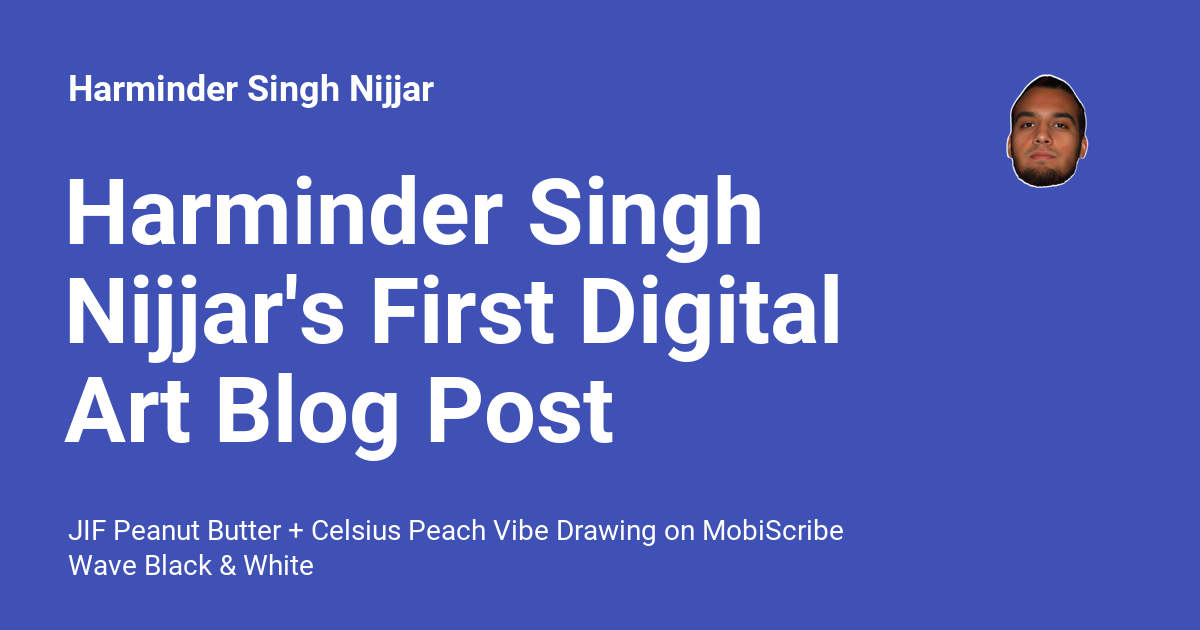
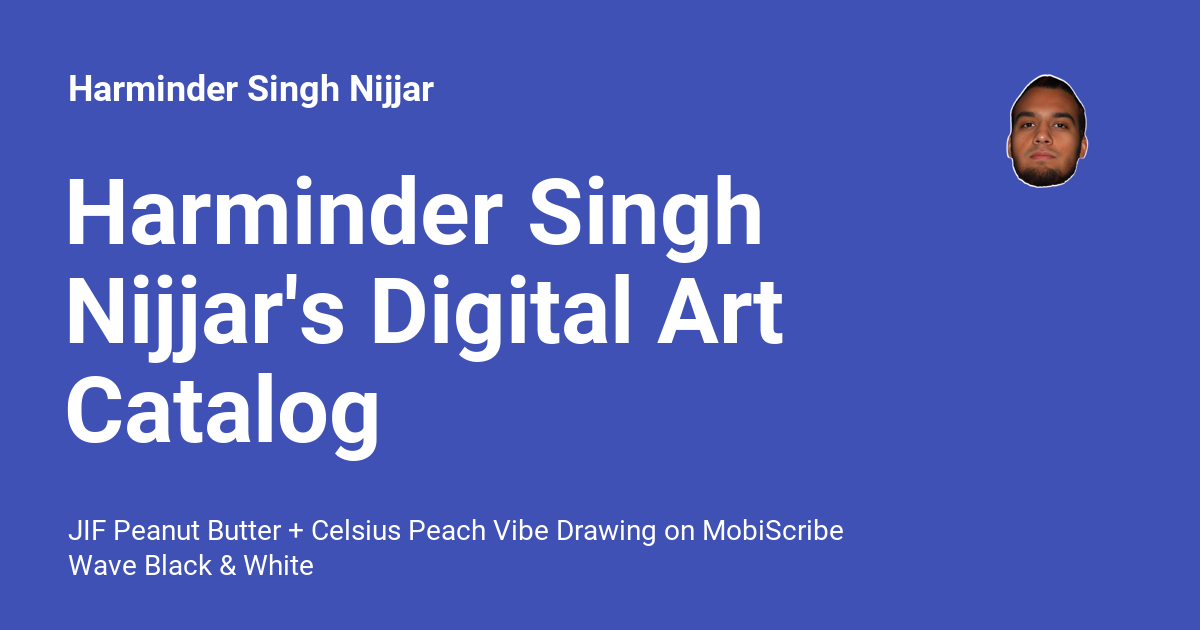
Deployed 357b3be with MkDocs version: 1.6.1

Changed region(s): [[0.0308, 0.4222, 0.7092, 0.754]]

diff --git a/blog/2024/11/25/harminder-singh-nijjars-digital-art-catalog/index.html b/blog/2024/11/25/harminder-singh-nijjars-digital-art-catalog/index.html
@@ -7,11 +7,11 @@
 <meta content="width=device-width,initial-scale=1" name="viewport"/>
 <meta content="JIF Peanut Butter + Celsius Peach Vibe Drawing on MobiScribe Wave Black &amp; White" name="description"/>
 <meta content="harmindersinghnijjar" name="author"/>
-<link href="https://harminder.dev/blog/2024/11/25/harminder-singh-nijjars-first-digital-art-blog-post/" rel="canonical">
+<link href="https://harminder.dev/blog/2024/11/25/harminder-singh-nijjars-digital-art-catalog/" rel="canonical">
 <link href="../agentic-web-scraping-in-2024/" rel="prev"/>
 <link href="../../../../../assets/images/favicon.png" rel="icon"/>
 <meta content="mkdocs-1.6.1, mkdocs-material-9.5.45" name="generator"/>
-<title>Harminder Singh Nijjar's First Digital Art Blog Post - Harminder Singh Nijjar</title>
+<title>Harminder Singh Nijjar's Digital Art Catalog - Harminder Singh Nijjar</title>
 <link href="../../../../../assets/stylesheets/main.0253249f.min.css" rel="stylesheet"/>
 <link href="../../../../../assets/stylesheets/palette.06af60db.min.css" rel="stylesheet"/>
 <link crossorigin="" href="https://fonts.gstatic.com" rel="preconnect">
@@ -23,26 +23,23 @@
 <script id="__analytics">function __md_analytics(){function e(){dataLayer.push(arguments)}window.dataLayer=window.dataLayer||[],e("js",new Date),e("config","G-X0B1C5DM9K"),document.addEventListener("DOMContentLoaded",(function(){document.forms.search&&document.forms.search.query.addEventListener("blur",(function(){this.value&&e("event","search",{search_term:this.value})}));document$.subscribe((function(){var t=document.forms.feedback;if(void 0!==t)for(var a of t.querySelectorAll("[type=submit]"))a.addEventListener("click",(function(a){a.preventDefault();var n=document.location.pathname,d=this.getAttribute("data-md-value");e("event","feedback",{page:n,data:d}),t.firstElementChild.disabled=!0;var r=t.querySelector(".md-feedback__note [data-md-value='"+d+"']");r&&(r.hidden=!1)})),t.hidden=!1})),location$.subscribe((function(t){e("config","G-X0B1C5DM9K",{page_path:t.pathname})}))}));var t=document.createElement("script");t.async=!0,t.src="https://www.googletagmanager.com/gtag/js?id=G-X0B1C5DM9K",document.getElementById("__analytics").insertAdjacentElement("afterEnd",t)}</script>
 <script>if("undefined"!=typeof __md_analytics){var consent=__md_get("__consent");consent&&consent.analytics&&__md_analytics()}</script>
 <meta content="website" property="og:type"/>
-<meta content="Harminder Singh Nijjar's First Digital Art Blog Post - Harminder Singh Nijjar" property="og:title"/>
+<meta content="Harminder Singh Nijjar's Digital Art Catalog - Harminder Singh Nijjar" property="og:title"/>
 <meta content="JIF Peanut Butter + Celsius Peach Vibe Drawing on MobiScribe Wave Black &amp; White" property="og:description"/>
 <meta content="https://i.imgur.com/knoIoDW.jpeg" property="og:image"/>
 <meta content="image/png" property="og:image:type"/>
 <meta content="1200" property="og:image:width"/>
 <meta content="630" property="og:image:height"/>
-<meta content="https://harminder.dev/blog/2024/11/25/harminder-singh-nijjars-first-digital-art-blog-post/" property="og:url"/>
+<meta content="https://harminder.dev/blog/2024/11/25/harminder-singh-nijjars-digital-art-catalog/" property="og:url"/>
 <meta content="summary_large_image" name="twitter:card"/>
-<meta content="Harminder Singh Nijjar's First Digital Art Blog Post - Harminder Singh Nijjar" name="twitter:title"/>
+<meta content="Harminder Singh Nijjar's Digital Art Catalog - Harminder Singh Nijjar" name="twitter:title"/>
 <meta content="JIF Peanut Butter + Celsius Peach Vibe Drawing on MobiScribe Wave Black &amp; White" name="twitter:description"/>
 <meta content="https://harminder.dev/assets/images/social/blog/posts/20241125141256.png" name="twitter:image"/>
-<meta content="Harminder Singh Nijjar's First Digital Art Blog Post" name="title"/><link href="https://cdnjs.cloudflare.com/ajax/libs/font-awesome/6.4.2/css/all.min.css" rel="stylesheet"><meta content="website" property="og:type"/><meta content="https://harminder.dev/blog/2024/11/25/harminder-singh-nijjars-first-digital-art-blog-post" property="og:url"/><meta content="Harminder Singh Nijjar's First Digital Art Blog Post" property="og:title"/><meta content="JIF Peanut Butter + Celsius Peach Vibe Drawing on MobiScribe Wave Black &amp; White" property="og:description"/><meta content="summary_large_image" property="twitter:card"/><meta content="https://harminder.dev/blog/2024/11/25/harminder-singh-nijjars-first-digital-art-blog-post" property="twitter:url"/><meta content="Harminder Singh Nijjar's First Digital Art Blog Post" property="twitter:title"/><meta content="JIF Peanut Butter + Celsius Peach Vibe Drawing on MobiScribe Wave Black &amp; White" property="twitter:description"/><meta content="https://i.imgur.com/knoIoDW.jpeg" property="twitter:image"/><script type="application/ld+json">{"@context": "https://schema.org", "@type": "Article", "headline": "Harminder Singh Nijjar's First Digital Art Blog Post", "image": ["https://i.imgur.com/knoIoDW.jpeg"], "datePublished": "2024-11-25 14:20:58 -0800", "dateModified": "2024-11-25 15:24:21 -0800", "author": [{"@type": "Organization", "name": "Ultralytics", "url": "https://ultralytics.com/"}], "abstract": "JIF Peanut Butter + Celsius Peach Vibe Drawing on MobiScribe Wave Black & White"}</script></head>
+<meta content="Harminder Singh Nijjar's Digital Art Catalog" name="title"/><link href="https://cdnjs.cloudflare.com/ajax/libs/font-awesome/6.4.2/css/all.min.css" rel="stylesheet"><meta content="website" property="og:type"/><meta content="https://harminder.dev/blog/2024/11/25/harminder-singh-nijjars-digital-art-catalog" property="og:url"/><meta content="Harminder Singh Nijjar's Digital Art Catalog" property="og:title"/><meta content="JIF Peanut Butter + Celsius Peach Vibe Drawing on MobiScribe Wave Black &amp; White" property="og:description"/><meta content="summary_large_image" property="twitter:card"/><meta content="https://harminder.dev/blog/2024/11/25/harminder-singh-nijjars-digital-art-catalog" property="twitter:url"/><meta content="Harminder Singh Nijjar's Digital Art Catalog" property="twitter:title"/><meta content="JIF Peanut Butter + Celsius Peach Vibe Drawing on MobiScribe Wave Black &amp; White" property="twitter:description"/><meta content="https://i.imgur.com/knoIoDW.jpeg" property="twitter:image"/><script type="application/ld+json">{"@context": "https://schema.org", "@type": "Article", "headline": "Harminder Singh Nijjar's Digital Art Catalog", "image": ["https://i.imgur.com/knoIoDW.jpeg"], "datePublished": "2024-11-25 14:20:58 -0800", "dateModified": "2024-11-26 20:21:42 -0800", "author": [{"@type": "Organization", "name": "Ultralytics", "url": "https://ultralytics.com/"}], "abstract": "JIF Peanut Butter + Celsius Peach Vibe Drawing on MobiScribe Wave Black & White"}</script></head>
 <body data-md-color-accent="custom" data-md-color-primary="custom" data-md-color-scheme="default" dir="ltr">
 <input autocomplete="off" class="md-toggle" data-md-toggle="drawer" id="__drawer" type="checkbox"/>
 <input autocomplete="off" class="md-toggle" data-md-toggle="search" id="__search" type="checkbox"/>
 <label class="md-overlay" for="__drawer"></label>
 <div data-md-component="skip">
-<a class="md-skip" href="#my-first-digital-art-blog-post">
-          Skip to content
-        </a>
 </div>
 <div data-md-component="announce">
 </div>
@@ -64,7 +61,7 @@
 <div class="md-header__topic" data-md-component="header-topic">
 <span class="md-ellipsis">
             
-              Harminder Singh Nijjar's First Digital Art Blog Post
+              Harminder Singh Nijjar's Digital Art Catalog
             
           </span>
 </div>
@@ -276,9 +273,11 @@
 <span class="md-tag">Drawing</span>
 <span class="md-tag">Digital Art</span>
 </nav>
-<h1 id="my-first-digital-art-blog-post">My First Digital Art Blog Post</h1>
-<p>While sitting on the dining table drinking a <a href="https://amzn.to/499IQbh">Celsius Peach Vibe</a>, I decided to create a quick digital drawing of the can next to a container of <a href="https://amzn.to/3B13TAn">JIF peanut butter</a>. The drawing was done on my <a href="https://amzn.to/3CEDYyM">MobiScribe WAVE</a> using the stylus that came with the device. The MobiScribe WAVE is a great tool for digital art, and I enjoy using it for quick sketches and drawings.</p>
-<p><img alt="JIF + Celsius Peach Vibe" src="https://i.imgur.com/knoIoDW.jpeg"></p>
+<h1>Harminder Singh Nijjar's Digital Art Catalog</h1>
+<p>2024-11-25: While sitting on the dining table drinking a <a href="https://amzn.to/499IQbh">Celsius Peach Vibe</a>, I decided to create a quick digital drawing of the can next to a container of <a href="https://amzn.to/3B13TAn">JIF peanut butter</a>. The drawing was done on my <a href="https://amzn.to/3CEDYyM">MobiScribe WAVE</a> using the stylus that came with the device. The MobiScribe WAVE is a great tool for digital art, and I enjoy using it for quick sketches and drawings.
+<img alt="JIF + Celsius Peach Vibe" src="https://i.imgur.com/knoIoDW.jpeg"></p>
+<p>2024-11-26 20:17: Today I drew a quick sketch of two wolf pups howling at the moon.
+<img alt="Full Moon Pups" src="https://i.imgur.com/LfrytVl.png"></p>
 <form class="md-feedback" hidden="" name="feedback">
 <fieldset>
 <legend class="md-feedback__title">
@@ -312,7 +311,7 @@
 </div>
 </fieldset>
 </form>
-<div class="git-info" style="font-size: 0.8em; text-align: right; margin-bottom: 10px;"><br/>Created 2024-11-25, Updated 2024-11-25<br/>Authors: <a href="https://github.com/harmindersinghnijjar">harmindersinghnijjar</a> (5)</div>
+<div class="git-info" style="font-size: 0.8em; text-align: right; margin-bottom: 10px;"><br/>Created 2024-11-25, Updated 2024-11-26<br/>Authors: <a href="https://github.com/harmindersinghnijjar">harmindersinghnijjar</a> (6)</div>
 <style>
                 .share-button:hover {
                     filter: brightness(1.2);
@@ -323,10 +322,10 @@
                 }
             </style>
 <div class="share-buttons">
-<button class="share-button" onclick="window.open('https://twitter.com/intent/tweet?url=https://harminder.dev/blog/2024/11/25/harminder-singh-nijjars-first-digital-art-blog-post', 'TwitterShare', 'width=550,height=680,menubar=no,toolbar=no'); return false;" style="background-color: #1da1f2; color: white; padding: 5px 10px; border-radius: 5px; margin-right: 10px; cursor: pointer; display: flex; align-items: center;">
+<button class="share-button" onclick="window.open('https://twitter.com/intent/tweet?url=https://harminder.dev/blog/2024/11/25/harminder-singh-nijjars-digital-art-catalog', 'TwitterShare', 'width=550,height=680,menubar=no,toolbar=no'); return false;" style="background-color: #1da1f2; color: white; padding: 5px 10px; border-radius: 5px; margin-right: 10px; cursor: pointer; display: flex; align-items: center;">
 <i class="fa-brands fa-twitter" style="margin-right: 5px;"></i> Tweet
                 </button>
-<button class="share-button" onclick="window.open('https://www.linkedin.com/shareArticle?url=https://harminder.dev/blog/2024/11/25/harminder-singh-nijjars-first-digital-art-blog-post', 'LinkedinShare', 'width=550,height=730,menubar=no,toolbar=no'); return false;" style="background-color: #0077b5; color: white; padding: 5px 10px; border-radius: 5px; cursor: pointer; display: flex; align-items: center;">
+<button class="share-button" onclick="window.open('https://www.linkedin.com/shareArticle?url=https://harminder.dev/blog/2024/11/25/harminder-singh-nijjars-digital-art-catalog', 'LinkedinShare', 'width=550,height=730,menubar=no,toolbar=no'); return false;" style="background-color: #0077b5; color: white; padding: 5px 10px; border-radius: 5px; cursor: pointer; display: flex; align-items: center;">
 <i class="fa-brands fa-linkedin" style="margin-right: 5px;"></i> Share
                 </button>
 </div>

diff --git a/blog/archive/2024/index.html b/blog/archive/2024/index.html
@@ -505,9 +505,9 @@
     <ul class="md-nav__list" data-md-component="toc" data-md-scrollfix>
       
         <li class="md-nav__item">
-  <a href="#my-first-digital-art-blog-post" class="md-nav__link">
+  <a href="#harminder-singh-nijjars-digital-art-catalog" class="md-nav__link">
     <span class="md-ellipsis">
-      My First Digital Art Blog Post
+      Harminder Singh Nijjar's Digital Art Catalog
     </span>
   </a>
   
@@ -667,9 +667,9 @@
     <ul class="md-nav__list" data-md-component="toc" data-md-scrollfix>
       
         <li class="md-nav__item">
-  <a href="#my-first-digital-art-blog-post" class="md-nav__link">
+  <a href="#harminder-singh-nijjars-digital-art-catalog" class="md-nav__link">
     <span class="md-ellipsis">
-      My First Digital Art Blog Post
+      Harminder Singh Nijjar's Digital Art Catalog
     </span>
   </a>
   
@@ -743,9 +743,11 @@
     </div>
   </header>
   <div class="md-post__content md-typeset">
-    <h2 id="my-first-digital-art-blog-post"><a class="toclink" href="../../2024/11/25/harminder-singh-nijjars-first-digital-art-blog-post/">My First Digital Art Blog Post</a></h2>
-<p>While sitting on the dining table drinking a <a href="https://amzn.to/499IQbh">Celsius Peach Vibe</a>, I decided to create a quick digital drawing of the can next to a container of <a href="https://amzn.to/3B13TAn">JIF peanut butter</a>. The drawing was done on my <a href="https://amzn.to/3CEDYyM">MobiScribe WAVE</a> using the stylus that came with the device. The MobiScribe WAVE is a great tool for digital art, and I enjoy using it for quick sketches and drawings.</p>
-<p><img alt="JIF + Celsius Peach Vibe" src="https://i.imgur.com/knoIoDW.jpeg"></p>
+    <h2 id="harminder-singh-nijjars-digital-art-catalog"><a class="toclink" href="../../2024/11/25/harminder-singh-nijjars-digital-art-catalog/">Harminder Singh Nijjar's Digital Art Catalog</a></h2>
+<p>2024-11-25: While sitting on the dining table drinking a <a href="https://amzn.to/499IQbh">Celsius Peach Vibe</a>, I decided to create a quick digital drawing of the can next to a container of <a href="https://amzn.to/3B13TAn">JIF peanut butter</a>. The drawing was done on my <a href="https://amzn.to/3CEDYyM">MobiScribe WAVE</a> using the stylus that came with the device. The MobiScribe WAVE is a great tool for digital art, and I enjoy using it for quick sketches and drawings.
+<img alt="JIF + Celsius Peach Vibe" src="https://i.imgur.com/knoIoDW.jpeg"></p>
+<p>2024-11-26 20:17: Today I drew a quick sketch of two wolf pups howling at the moon.
+<img alt="Full Moon Pups" src="https://i.imgur.com/LfrytVl.png"></p>
     
   </div>
 </article>

diff --git a/blog/category/art/index.html b/blog/category/art/index.html
@@ -558,9 +558,9 @@
     <ul class="md-nav__list" data-md-component="toc" data-md-scrollfix>
       
         <li class="md-nav__item">
-  <a href="#my-first-digital-art-blog-post" class="md-nav__link">
+  <a href="#harminder-singh-nijjars-digital-art-catalog" class="md-nav__link">
     <span class="md-ellipsis">
-      My First Digital Art Blog Post
+      Harminder Singh Nijjar's Digital Art Catalog
     </span>
   </a>
   
@@ -686,9 +686,9 @@
     <ul class="md-nav__list" data-md-component="toc" data-md-scrollfix>
       
         <li class="md-nav__item">
-  <a href="#my-first-digital-art-blog-post" class="md-nav__link">
+  <a href="#harminder-singh-nijjars-digital-art-catalog" class="md-nav__link">
     <span class="md-ellipsis">
-      My First Digital Art Blog Post
+      Harminder Singh Nijjar's Digital Art Catalog
     </span>
   </a>
   
@@ -735,9 +735,11 @@
     </div>
   </header>
   <div class="md-post__content md-typeset">
-    <h2 id="my-first-digital-art-blog-post"><a class="toclink" href="../../2024/11/25/harminder-singh-nijjars-first-digital-art-blog-post/">My First Digital Art Blog Post</a></h2>
-<p>While sitting on the dining table drinking a <a href="https://amzn.to/499IQbh">Celsius Peach Vibe</a>, I decided to create a quick digital drawing of the can next to a container of <a href="https://amzn.to/3B13TAn">JIF peanut butter</a>. The drawing was done on my <a href="https://amzn.to/3CEDYyM">MobiScribe WAVE</a> using the stylus that came with the device. The MobiScribe WAVE is a great tool for digital art, and I enjoy using it for quick sketches and drawings.</p>
-<p><img alt="JIF + Celsius Peach Vibe" src="https://i.imgur.com/knoIoDW.jpeg"></p>
+    <h2 id="harminder-singh-nijjars-digital-art-catalog"><a class="toclink" href="../../2024/11/25/harminder-singh-nijjars-digital-art-catalog/">Harminder Singh Nijjar's Digital Art Catalog</a></h2>
+<p>2024-11-25: While sitting on the dining table drinking a <a href="https://amzn.to/499IQbh">Celsius Peach Vibe</a>, I decided to create a quick digital drawing of the can next to a container of <a href="https://amzn.to/3B13TAn">JIF peanut butter</a>. The drawing was done on my <a href="https://amzn.to/3CEDYyM">MobiScribe WAVE</a> using the stylus that came with the device. The MobiScribe WAVE is a great tool for digital art, and I enjoy using it for quick sketches and drawings.
+<img alt="JIF + Celsius Peach Vibe" src="https://i.imgur.com/knoIoDW.jpeg"></p>
+<p>2024-11-26 20:17: Today I drew a quick sketch of two wolf pups howling at the moon.
+<img alt="Full Moon Pups" src="https://i.imgur.com/LfrytVl.png"></p>
     
   </div>
 </article>

diff --git a/blog/index.html b/blog/index.html
@@ -536,9 +536,9 @@
     <ul class="md-nav__list" data-md-component="toc" data-md-scrollfix>
       
         <li class="md-nav__item">
-  <a href="#my-first-digital-art-blog-post" class="md-nav__link">
+  <a href="#harminder-singh-nijjars-digital-art-catalog" class="md-nav__link">
     <span class="md-ellipsis">
-      My First Digital Art Blog Post
+      Harminder Singh Nijjar's Digital Art Catalog
     </span>
   </a>
   
@@ -630,9 +630,11 @@
     </div>
   </header>
   <div class="md-post__content md-typeset">
-    <h2 id="my-first-digital-art-blog-post"><a class="toclink" href="2024/11/25/harminder-singh-nijjars-first-digital-art-blog-post/">My First Digital Art Blog Post</a></h2>
-<p>While sitting on the dining table drinking a <a href="https://amzn.to/499IQbh">Celsius Peach Vibe</a>, I decided to create a quick digital drawing of the can next to a container of <a href="https://amzn.to/3B13TAn">JIF peanut butter</a>. The drawing was done on my <a href="https://amzn.to/3CEDYyM">MobiScribe WAVE</a> using the stylus that came with the device. The MobiScribe WAVE is a great tool for digital art, and I enjoy using it for quick sketches and drawings.</p>
-<p><img alt="JIF + Celsius Peach Vibe" src="https://i.imgur.com/knoIoDW.jpeg"></p>
+    <h2 id="harminder-singh-nijjars-digital-art-catalog"><a class="toclink" href="2024/11/25/harminder-singh-nijjars-digital-art-catalog/">Harminder Singh Nijjar's Digital Art Catalog</a></h2>
+<p>2024-11-25: While sitting on the dining table drinking a <a href="https://amzn.to/499IQbh">Celsius Peach Vibe</a>, I decided to create a quick digital drawing of the can next to a container of <a href="https://amzn.to/3B13TAn">JIF peanut butter</a>. The drawing was done on my <a href="https://amzn.to/3CEDYyM">MobiScribe WAVE</a> using the stylus that came with the device. The MobiScribe WAVE is a great tool for digital art, and I enjoy using it for quick sketches and drawings.
+<img alt="JIF + Celsius Peach Vibe" src="https://i.imgur.com/knoIoDW.jpeg"></p>
+<p>2024-11-26 20:17: Today I drew a quick sketch of two wolf pups howling at the moon.
+<img alt="Full Moon Pups" src="https://i.imgur.com/LfrytVl.png"></p>
     
   </div>
 </article>

diff --git a/blog/2024/11/25/agentic-web-scraping-in-2024/index.html b/blog/2024/11/25/agentic-web-scraping-in-2024/index.html
@@ -9,7 +9,7 @@
 <meta content="harmindersinghnijjar" name="author"/>
 <link href="https://harminder.dev/blog/2024/11/25/agentic-web-scraping-in-2024/" rel="canonical">
 <link href="../../24/my-first-blog-post/" rel="prev"/>
-<link href="../harminder-singh-nijjars-first-digital-art-blog-post/" rel="next"/>
+<link href="../harminder-singh-nijjars-digital-art-catalog/" rel="next"/>
 <link href="../../../../../assets/images/favicon.png" rel="icon"/>
 <meta content="mkdocs-1.6.1, mkdocs-material-9.5.45" name="generator"/>
 <title>Agentic Web Scraping in 2024 - Harminder Singh Nijjar</title>
